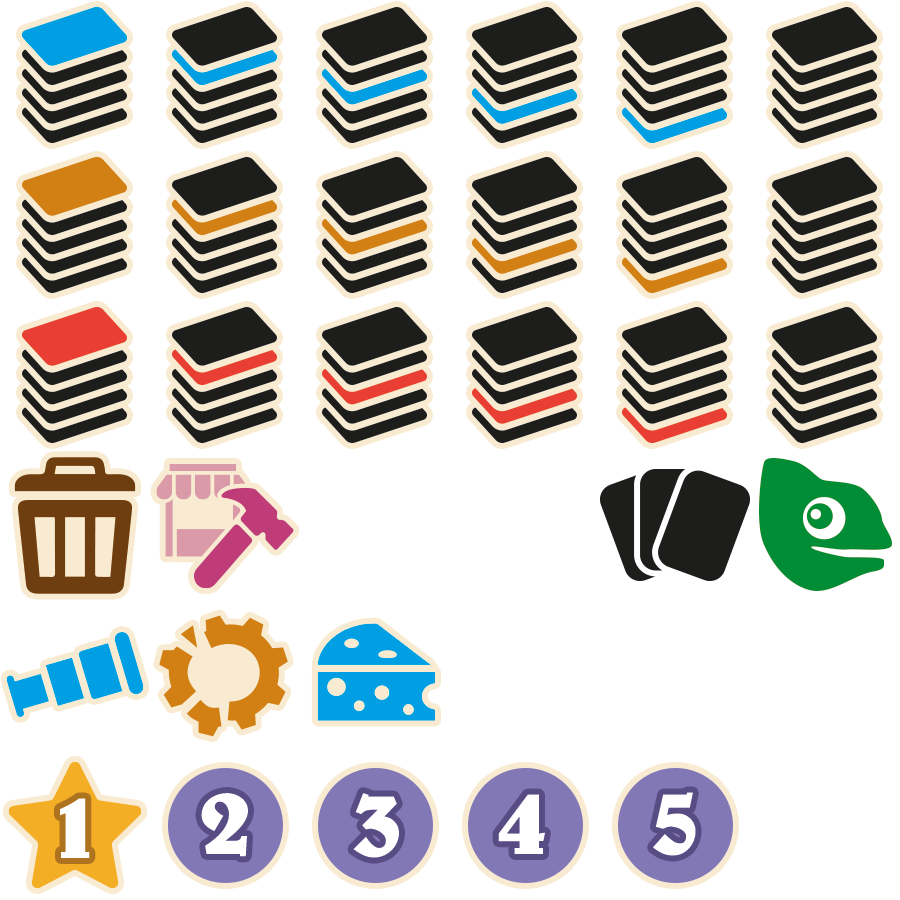
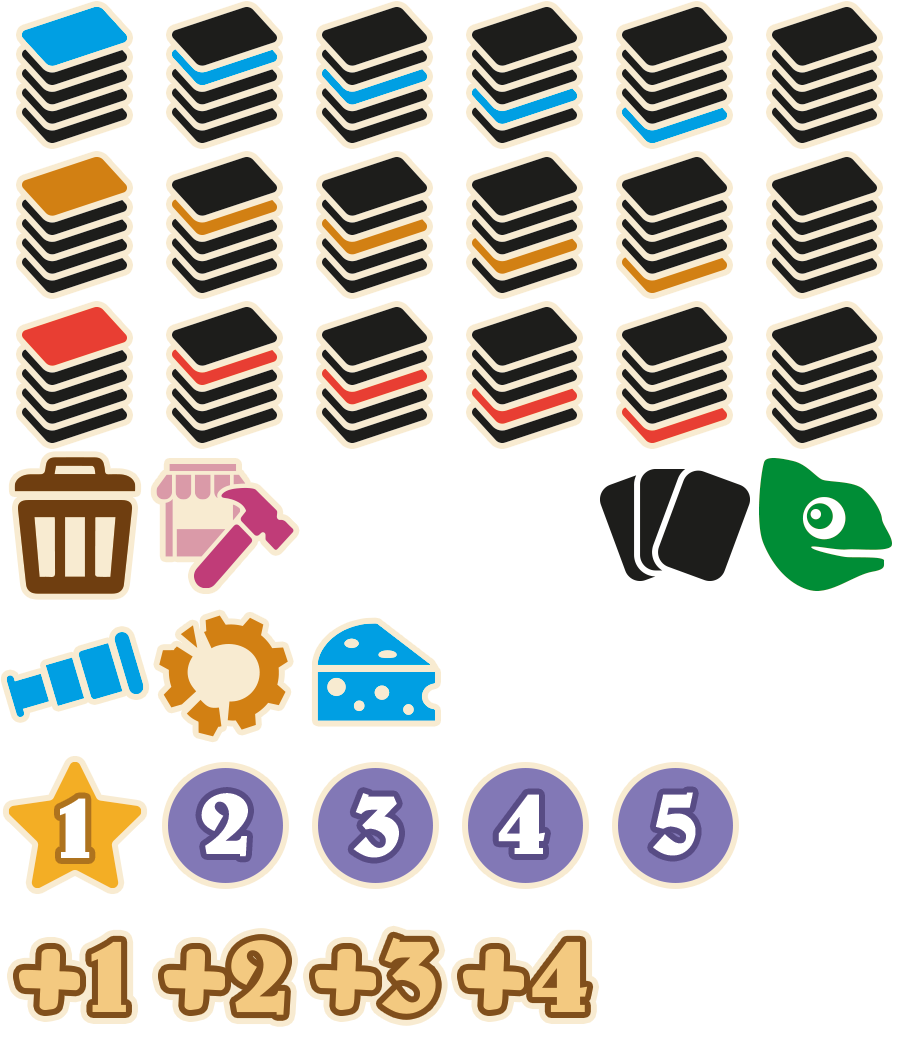
Update market graphics

diff --git a/dale.js b/dale.js
@@ -70,7 +70,10 @@ define("components/DaleIcons", ["require", "exports"], function (require, export
         DaleIcons.getNumberIcon = function (index) {
             return this.getIcon(5, index);
         };
-        DaleIcons.ROWS = 6;
+        DaleIcons.getCostModificationIcon = function (index) {
+            return this.getIcon(6, index);
+        };
+        DaleIcons.ROWS = 7;
         DaleIcons.COLUMNS = 6;
         DaleIcons.ICON_WIDTH = 150;
         DaleIcons.ICON_HEIGHT = 150;
@@ -2307,7 +2310,7 @@ define("components/MarketBoard", ["require", "exports", "components/Images", "co
         function MarketBoard(page) {
             this.MAX_SIZE = 5;
             this.page = page;
-            $("dale-market-board-background").setAttribute("style", "\n            width: ".concat(Images_5.Images.MARKET_WIDTH_S - Images_5.Images.MARKET_PADDING_LEFT_S - Images_5.Images.MARKET_PADDING_RIGHT_S, "px;\n            height: ").concat(Images_5.Images.MARKET_HEIGHT_S - Images_5.Images.MARKET_PADDING_TOP_S - Images_5.Images.MARKET_PADDING_BOTTOM_S, "px;\n\t\t\tbackground-size: ").concat(Images_5.Images.MARKET_WIDTH_S, "px ").concat(Images_5.Images.MARKET_HEIGHT_S, "px;\n\t\t\tpadding-top: ").concat(Images_5.Images.MARKET_PADDING_TOP_S, "px;\n\t\t\tpadding-left: ").concat(Images_5.Images.MARKET_PADDING_LEFT_S, "px;\n            padding-bottom: ").concat(Images_5.Images.MARKET_PADDING_BOTTOM_S, "px;\n\t\t\tpadding-right: ").concat(Images_5.Images.MARKET_PADDING_RIGHT_S, "px;\n\t\t"));
+            $("dale-market-board-background").setAttribute("style", "\n            width: ".concat(Images_5.Images.MARKET_WIDTH_S - Images_5.Images.MARKET_PADDING_LEFT_S - Images_5.Images.MARKET_PADDING_RIGHT_S, "px;\n            height: ").concat(Images_5.Images.MARKET_HEIGHT_S - Images_5.Images.MARKET_PADDING_TOP_S - Images_5.Images.MARKET_PADDING_BOTTOM_S, "px;\n\t\t\tpadding-top: ").concat(Images_5.Images.MARKET_PADDING_TOP_S, "px;\n\t\t\tpadding-left: ").concat(Images_5.Images.MARKET_PADDING_LEFT_S, "px;\n            padding-bottom: ").concat(Images_5.Images.MARKET_PADDING_BOTTOM_S, "px;\n\t\t\tpadding-right: ").concat(Images_5.Images.MARKET_PADDING_RIGHT_S, "px;\n\t\t"));
             this.container = $("dale-market-board-background").querySelector("#dale-market-board");
             this.slots = [];
             for (var pos = this.MAX_SIZE - 1; pos >= 0; pos--) {
@@ -2323,7 +2326,7 @@ define("components/MarketBoard", ["require", "exports", "components/Images", "co
                 slotDiv.classList.add("dale-placeholder-market");
                 stackContainer.appendChild(slotDiv);
                 if (pos > 0) {
-                    stackContainer.appendChild(DaleIcons_3.DaleIcons.getNumberIcon(pos - 1));
+                    stackContainer.appendChild(DaleIcons_3.DaleIcons.getCostModificationIcon(pos - 1));
                 }
                 this.container.appendChild(stackContainer);
                 this.slots.unshift(new CardSlot_1.CardSlot(this, pos, slotDiv));

diff --git a/source/client/components/MarketBoard.ts b/source/client/components/MarketBoard.ts
@@ -24,11 +24,11 @@ export class MarketBoard implements CardSlotManager, DaleLocation {
 
     constructor(page: Gamegui) {
         //set the background for the market board
+        //background-size: ${Images.MARKET_WIDTH_S}px ${Images.MARKET_HEIGHT_S}px;
         this.page = page;
         $("dale-market-board-background").setAttribute("style", `
             width: ${Images.MARKET_WIDTH_S - Images.MARKET_PADDING_LEFT_S - Images.MARKET_PADDING_RIGHT_S}px;
             height: ${Images.MARKET_HEIGHT_S - Images.MARKET_PADDING_TOP_S - Images.MARKET_PADDING_BOTTOM_S}px;
-			background-size: ${Images.MARKET_WIDTH_S}px ${Images.MARKET_HEIGHT_S}px;
 			padding-top: ${Images.MARKET_PADDING_TOP_S}px;
 			padding-left: ${Images.MARKET_PADDING_LEFT_S}px;
             padding-bottom: ${Images.MARKET_PADDING_BOTTOM_S}px;
@@ -53,7 +53,7 @@ export class MarketBoard implements CardSlotManager, DaleLocation {
             slotDiv.classList.add("dale-placeholder-market");
             stackContainer.appendChild(slotDiv);
             if (pos > 0) {
-                stackContainer.appendChild(DaleIcons.getNumberIcon(pos-1));
+                stackContainer.appendChild(DaleIcons.getCostModificationIcon(pos-1));
             }
             this.container.appendChild(stackContainer);
             this.slots.unshift(new CardSlot(this, pos, slotDiv));

diff --git a/source/client/components/DaleIcons.ts b/source/client/components/DaleIcons.ts
@@ -1,5 +1,5 @@
 export class DaleIcons {
-    private static readonly ROWS = 6;
+    private static readonly ROWS = 7;
     private static readonly COLUMNS = 6;
     
     private static readonly ICON_WIDTH = 150;
@@ -89,5 +89,14 @@ export class DaleIcons {
 
     public static getNumberIcon(index: number): HTMLElement {
         return this.getIcon(5, index);
+    }
+
+    
+    /////////////////////////////
+    ////////    ROW 6    ////////
+    /////////////////////////////
+
+    public static getCostModificationIcon(index: number): HTMLElement {
+        return this.getIcon(6, index);
     }
 }

diff --git a/source/client/dale.scss b/source/client/dale.scss
@@ -307,8 +307,9 @@
     background-image: url(img/shop_day.jpg);
 	background-repeat: no-repeat;
 	position: relative;
-	//min-width: 3000px; //large enough to always fit the full the background image (2717px) + a little bit of margin for right item_margin of the right card
-    // background-size: contain; /* Ensures the background image fits within the div, maintaining its aspect ratio */
+	background-position: center;
+	background-size: cover;
+	border-radius: 5px;
 }
 
 .dale-horizontal-flex {

diff --git a/dale.css b/dale.css
@@ -257,6 +257,9 @@
   background-image: url(img/shop_day.jpg);
   background-repeat: no-repeat;
   position: relative;
+  background-position: center;
+  background-size: cover;
+  border-radius: 5px;
 }
 
 .dale-horizontal-flex {

diff --git a/gameinfos.inc.php b/gameinfos.inc.php
@@ -17,7 +17,7 @@ $gameinfos = array(
 	'publisher_website' => 'https://snowdaledesign.fi/',
 	'publisher_bgg_id' => 29738,
 	'bgg_id' => 176165,
-	'players' => [2, 3, 4],
+	'players' => [1, 2, 3, 4],
 	'player_colors' => ['ff0000', '008000', '0000ff', 'ffa500', '773300'],
 	'favorite_colors_support' => false,
 	'suggest_player_number' => null,
